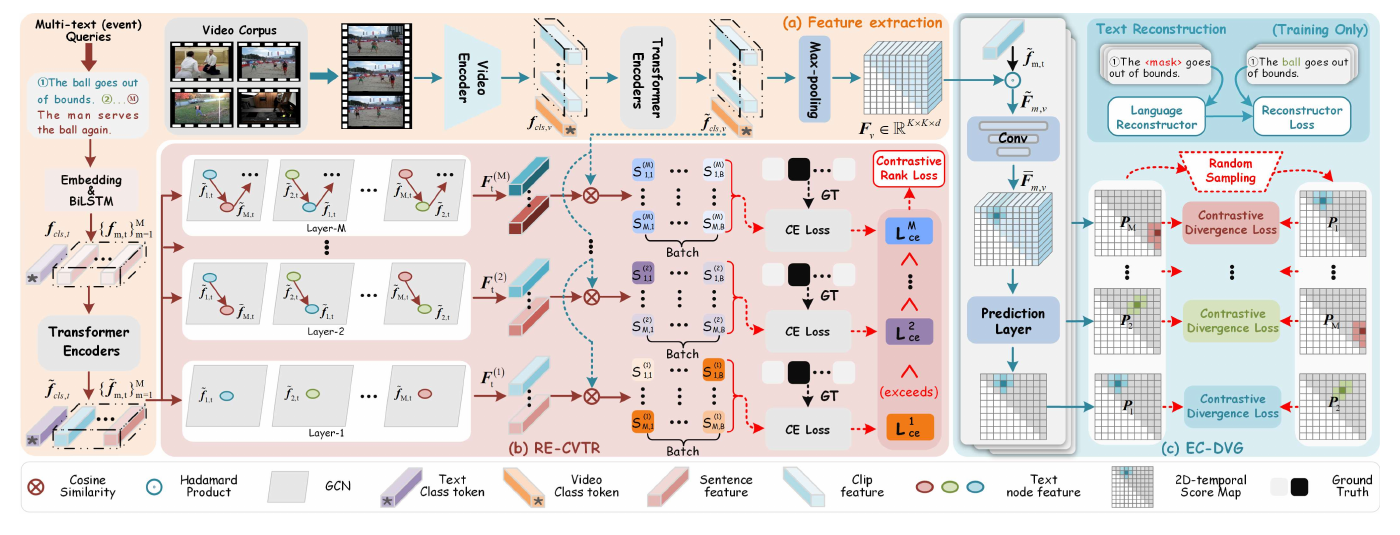
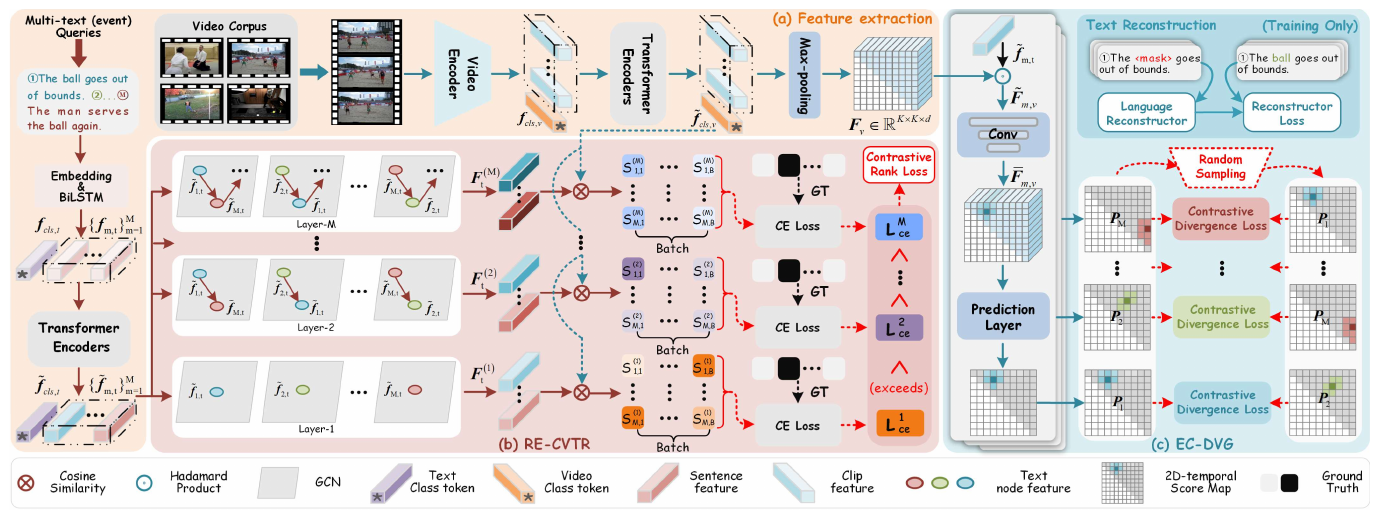
Crop publication figures and preserve their aspect ratios

Changed region(s): [[0.0, 0.0, 0.9971, 0.9846]]

diff --git a/assets/css/main.scss b/assets/css/main.scss
@@ -357,9 +357,10 @@ body {
 }
 
 .paper-box .paper-box-image img {
+  display: block;
   width: 100%;
   max-width: 25rem;
-  aspect-ratio: 16 / 10;
+  height: auto;
   border: 1px solid #d6e0eb;
   border-radius: 10px;
   box-shadow: 0 8px 20px rgba(23, 42, 70, 0.11);